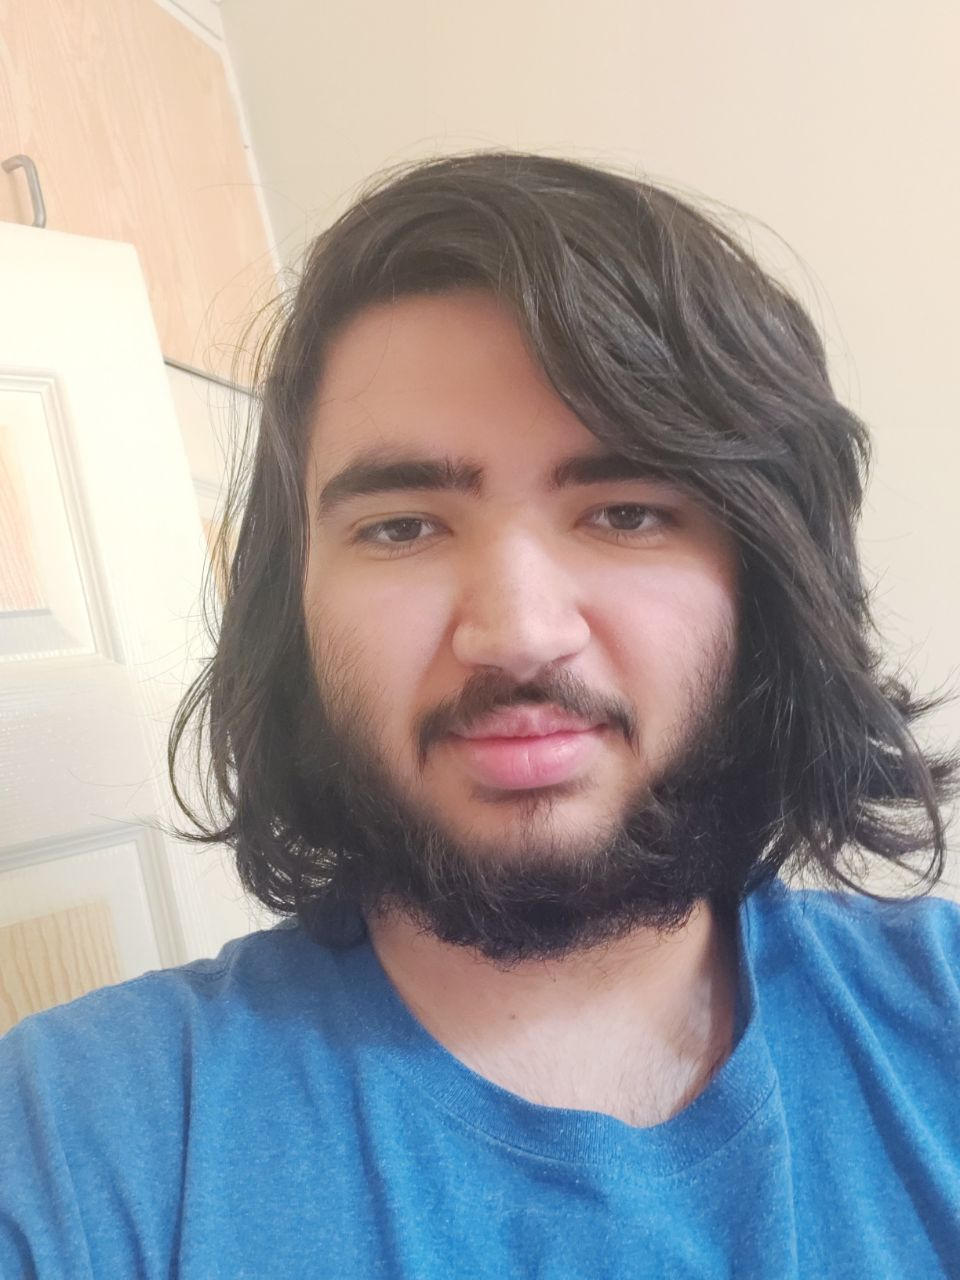
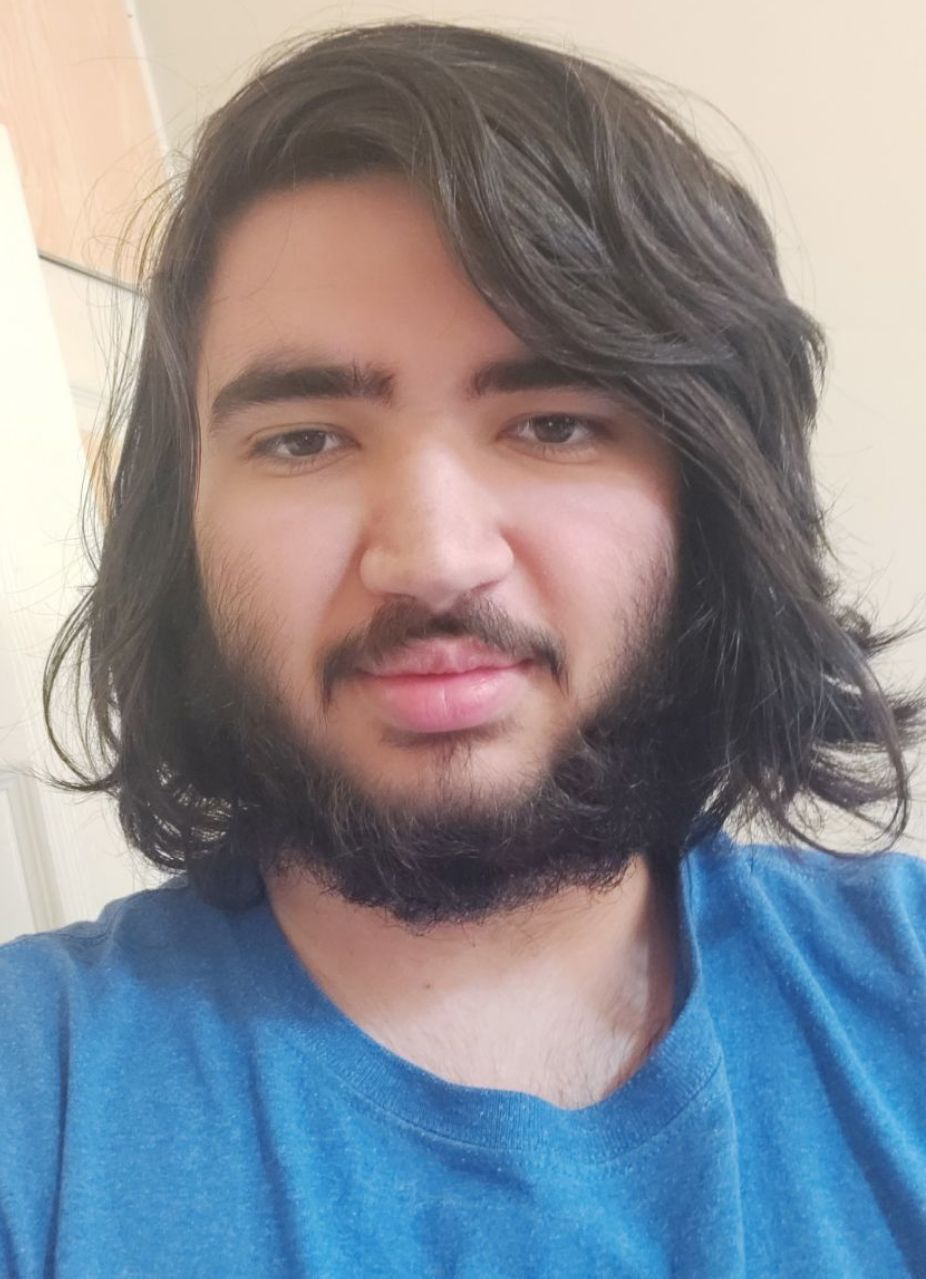
change img tag to div

diff --git a/members.html b/members.html
@@ -7,38 +7,49 @@ description: "Collaborators working on this project."
 
 {% for member in site.data.members %} {% if member.visible == true %}
 
-	<img src="{{ member.img }}" style="margin-top:0px; margin-bottom:5px; margin-right:10px; float:left; width:150px; height: 150px; border-radius: 10%;!important">
-	<h2>{{ member.name }}</h2>
-	<h4>{{ member.startyear }} to {% if member.enddate != 2030 %}{{ member.enddate }}{% endif %}</h4>
-	
-	{% if member.github %} 
-		<span class="social-share-googleplus"><a href="https://github.com/{{ member.github }}" title="Github"><img class="icon_image" src="{{ "/img/icons/github-icon.png" }}"></a></span>
-	{% endif %}
-	{% if member.gplus %}
-		<span class="social-share-googleplus"><a href="{{ member.gplus }}" title="Google Plus"><img class="icon_image" src="{{ "/img/icons/gplus-icon.png" | prepend: site.baseurl }}"></a></span>
-	{% endif %}
-	{% if member.url %}
-		<span class="social-share-googleplus"><a href="{{ member.url }}" title="Google Plus"><img class="icon_image" src="{{ "/img/icons/url-icon.png"| prepend: site.baseurl }}" ></a></span>
-	{% endif %}
-	{% if member.linkedin %}
-		<span class="social-share-googleplus"><a href="{{ member.linkedin }}" title="Linkedin"><img class="icon_image" src="{{ "/img/icons/linkdin.webp" }}"></a></span>
-	{% endif %}
-	{% if member.email %}
-		<span class="social-share-googleplus"><a href="{{ member.email }}" title="email"><img class="icon_image" src="{{ "/img/icons/email.webp" }}" ></a></span>
-	{% endif %}
-	</br>
+<div
+        style="background-image: url('{{ member.img }}');
+        background-size: cover;
+        margin-top:0px;
+         margin-bottom:5px;
+          margin-right:10px;
+           float:left; width:150px; height: 150px; border-radius: 10%;!important">
+</div>
+<h2>{{ member.name }}</h2>
+<h4>{{ member.startyear }} to {% if member.enddate != 2030 %}{{ member.enddate }}{% endif %}</h4>
 
-	{% if member.bio %} 
-	{{ member.bio }}
-	{% endif %}
-	
-	<hr>
+{% if member.github %}
+<span class="social-share-googleplus"><a href="https://github.com/{{ member.github }}" title="Github"><img
+        class="icon_image" src="{{ "/img/icons/github-icon.png" }}"></a></span>
+{% endif %}
+{% if member.gplus %}
+<span class="social-share-googleplus"><a href="{{ member.gplus }}" title="Google Plus"><img class="icon_image"
+                                                                                            src="{{ "/img/icons/gplus-icon.png" | prepend: site.baseurl }}"></a></span>
+{% endif %}
+{% if member.url %}
+<span class="social-share-googleplus"><a href="{{ member.url }}" title="Google Plus"><img class="icon_image"
+                                                                                          src="{{ "/img/icons/url-icon.png"| prepend: site.baseurl }}" ></a></span>
+{% endif %}
+{% if member.linkedin %}
+<span class="social-share-googleplus"><a href="{{ member.linkedin }}" title="Linkedin"><img class="icon_image"
+                                                                                            src="{{ "/img/icons/linkdin.webp" }}"></a></span>
+{% endif %}
+{% if member.email %}
+<span class="social-share-googleplus"><a href="{{ member.email }}" title="email"><img class="icon_image" src="{{ "/img/icons/email.webp" }}" ></a></span>
+{% endif %}
+</br>
+
+{% if member.bio %}
+{{ member.bio }}
+{% endif %}
+
+<hr>
 
 {% endif %}{% endfor %}
 
 <style>
-	.icon_image{
-		height: 30px;
-		width: 30px;
-	}
+    .icon_image {
+        height: 30px;
+        width: 30px;
+    }
 </style>
